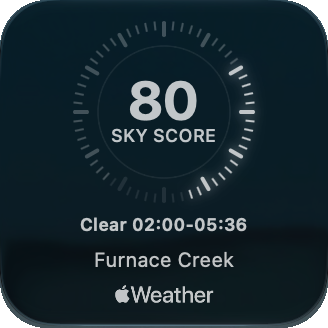
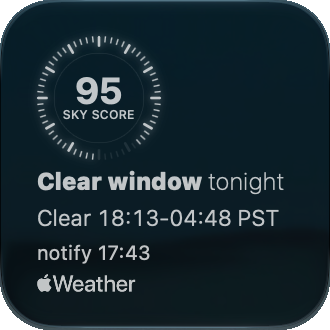
README screenshots refreshed from version 1.7.3: popover, plan, week ahead, Eyes and binoculars, a target's page and the three widgets

diff --git a/README.md b/README.md
@@ -10,11 +10,11 @@ Free astrophotography app for the Mac (a menu-bar app), iPhone and iPad: finds t
 
 *The full Moon, 26 September 2026, DWARF Mini, Richard Sutcliffe.*
 
-<img src="docs/images/screenshot-popover-clear-night.jpg" width="360" alt="The Nightwatch popover at Furnace Creek in Death Valley National Park: a sky score of 80, a clear window from 02:00 to 05:36, 3.6 hours, held back by a 96% Moon, with Open-Meteo agreeing, the night drawn as an arc with an amber dot at the present hour, darkness 19:27 to 05:36, seeing of 0.75 to 1 arcsecond, wind of 16 km/h, low dew risk, good transparency, the Moon 96% lit and setting at 05:24, and the three best targets, IC 417, NGC 1023 and Capella">
+<img src="docs/images/screenshot-popover-clear-night.jpg" width="360" alt="The Nightwatch popover at Furnace Creek in Death Valley National Park: a sky score of 95, a clear window from 18:13 to 04:48, 10.6 hours, held back by seeing at 1 to 1.25 arcseconds, with Open-Meteo agreeing, the night drawn as an arc, seeing of 1 to 1.25 arcseconds, wind of 9 km/h, low dew risk, good transparency, the Moon 4% lit and rising at 04:47, and the three best targets, IC 417, NGC 7331 and Capella">
 
 ## Screenshots
 
-Taken with version 1.7 and a DWARF Mini, observing from Furnace Creek in Death Valley National Park, a public place (the popover, Tonight's plan, the week ahead, the Targets window, the dark sites and the widgets). The alerts and the horizon dial are from earlier versions.
+Taken with version 1.7.3 and a DWARF Mini, observing from Furnace Creek in Death Valley National Park, a public place (the popover, Tonight's plan, the week ahead, the Targets window, a target's page and the widgets). The alerts, the horizon dial, the constellations, the dark sites, the events and the Moon covering a star are from earlier versions.
 
 **Alerts:** a heads-up an hour before sunset when tonight looks clear, with your plan and what the second forecast thinks, and a nudge as the clear window opens.
 
@@ -22,19 +22,19 @@ Taken with version 1.7 and a DWARF Mini, observing from Furnace Creek in Death V
 
 **Tonight's plan:** your favourites that are up in the clear window, in order of their best time, with your telescope's filter and frames, and one altitude chart showing where each is through the night. Two best at the same time are marked, so you can choose; take one off for the night, and the choice is kept.
 
-<img src="docs/images/screenshot-plan.jpg" width="728" alt="Tonight's plan at Furnace Creek, clear 02:00 to 05:36: an altitude chart with two lines, NGC 1491 at 02:30 and Capella at 04:00, above the rows for the plan, with Aries, the Pleiades and Uranus taken off for the night as dashed rows, each with Put back">
+<img src="docs/images/screenshot-plan.jpg" width="728" alt="Tonight's plan at Furnace Creek, clear 18:13 to 04:48, 10 hours 35 minutes, Moon 4%: an altitude chart with lines for Cygnus at 18:13, Saturn at 21:13, Aries at 23:43 and Orion at 02:13, above the rows for Cygnus, Saturn and Aries, each with Not tonight, and the Pleiades taken off for the night as a dashed row with Put back">
 
 **The week ahead:** up to ten nights in date order, each with its clear window or longest clear run, darkness and the Moon, so the best night of the week is easy to pick. Cloud from three days out is marked "Less certain".
 
-<img src="docs/images/screenshot-week-ahead.jpg" width="728" alt="The week ahead at Furnace Creek: ten nights in date order, five with a clear window, Monday the longest at 10.3 hours, and nights from three days out marked Less certain">
+<img src="docs/images/screenshot-week-ahead.jpg" width="728" alt="The week ahead at Furnace Creek: the next nine nights, all nine with a clear window, from 10.6 hours tonight to 7.8 hours on Thursday, with the Moon at most 22% lit on the nights shown, and nights from three days out marked Less certain">
 
-**Tonight or tomorrow night:** the whole Targets window can show tomorrow night instead, so you can plan ahead. Each card says how much of your frame the target fills, and when it is up in the clear window.
+**Tonight or tomorrow night:** the whole Targets window can show tomorrow night instead, so you can plan ahead. Each card says when the target is up in the clear window and when it is at its best; this is Eyes and binoculars, the targets that need no telescope.
 
-<img src="docs/images/screenshot-nebulae.jpg" width="728" alt="Nebulae for tonight, clear 02:00 to 05:36: sky-survey cards for the Flaming Star Nebula, IC 2067, IC 410, IC 417, the California Nebula and others, each with how much of the frame it fills and its best time">
+<img src="docs/images/screenshot-eyes-binoculars.jpg" width="728" alt="Eyes and binoculars for tonight, moonless until Wed 11 Nov: sky-survey cards for IC 444, the Iris Nebula, NGC 1975, NGC 1973, the Triangulum Galaxy and the Andromeda Galaxy, each marked Binoculars or Naked eye, with what it looks like, when it can be viewed and its best time">
 
 **A target's page:** the survey photo fills the window at your field of view, and "How to shoot this" gives your telescope's filter, exposure and frames, sized to the clear window.
 
-<img src="docs/images/screenshot-target.jpg" width="728" alt="The California Nebula page: a sky-survey photo with the dashed box of a DWARF Mini's field of view, How to shoot this with the Duo-Band filter, 15 to 60 second frames at gain 60 to 80 and 200 to 400 frames, the best time of 02:30 at 88 degrees, and the altitude through tonight's clear window">
+<img src="docs/images/screenshot-target.jpg" width="728" alt="The Maia Nebula page: a blue sky-survey photo with How to shoot this with your DwarfLab DWARF Mini open, giving the Duo-Band filter, 15 to 60 second frames at gain 60 to 80 and 200 to 400 frames, with the best time of 00:13 at 78 degrees in the south, 81% of the window above 30 degrees, the Moon 142 degrees away, and the altitude through tonight's clear window">
 
 **All 88 constellations:** each one drawn as a figure over its stars.
 
@@ -58,7 +58,7 @@ Taken with version 1.7 and a DWARF Mini, observing from Furnace Creek in Death V
 
 **Desktop widgets:** small, medium and large.
 
-<img src="docs/images/screenshot-widget-small.png" width="164" alt="Small widget: sky score 80, clear 02:00 to 05:36, Furnace Creek"> <img src="docs/images/screenshot-widget-medium.png" width="344" alt="Medium widget: sky score 80, clear 02:00 to 05:36, the reason and the second forecast, and clear sky by hour"> <img src="docs/images/screenshot-widget-large.png" width="344" alt="Large widget: sky score 80, the clear window, the night drawn as an arc, and the three best targets">
+<img src="docs/images/screenshot-widget-small.png" width="164" alt="Small widget: sky score 95, clear 18:13 to 04:48, Furnace Creek, with the time the alert will come"> <img src="docs/images/screenshot-widget-medium.png" width="344" alt="Medium widget: sky score 95, Furnace Creek, clear 18:13 to 04:48, 10.6 hours, the night drawn as an arc and the first targets"> <img src="docs/images/screenshot-widget-large.png" width="344" alt="Large widget: sky score 95, clear 18:13 to 04:48, held back by seeing with Open-Meteo agreeing, the night drawn as an arc, and the three best targets, IC 417, NGC 7331 and Capella">
 
 ## Download
 
